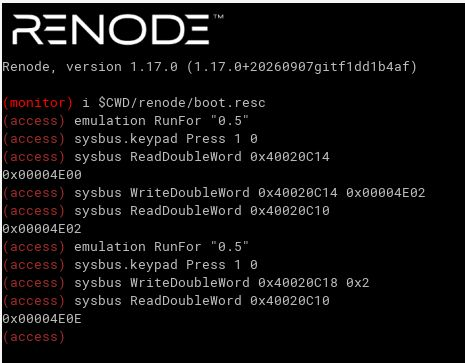
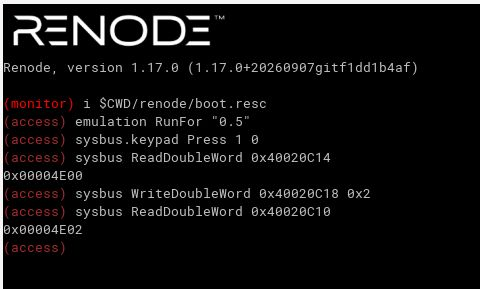
Last state of renode task documented in debugging protocol

Changed region(s): [[0.0, 0.0, 1.0, 0.9654], [0.7527, 0.4983, 0.9333, 0.5606]]

diff --git a/Docs/Debugging/renode-gpio-odr.md b/Docs/Debugging/renode-gpio-odr.md
@@ -1,6 +1,7 @@
-# Debug Log: Renode keypad scan hangs (ODR read-modify-write)
+# Debug Log: Renode keypad scan hangs
 
-Date: 2026-11-01 to 2026-11-02  
+Status: parked (2026-11-03), cause narrowed down to H4, see [Follow-ups](#follow-ups)  
+Date: 2026-11-01 to 2026-11-03  
 Renode 1.17.0 (portable `.deb`), `stm32f4_discovery-kit.repl` + `renode/KeypadMatrix.cs`  
 Firmware: `build-firmware/stm32f407_access_control`  
 Files involved: `renode/boot.resc`, `renode/stm32f407_access.repl`, `renode/KeypadMatrix.cs`, `Tests/renode/access.robot`, `keypad.c`, `stm32f407xx_gpio.c`
@@ -27,6 +28,9 @@ renode renode/boot.resc
 | Hex-Value | LED-Part | COLUMNS | x | ROWS |
 | --- | --- | --- | --- | --- |
 | 4F00 | 0100 | 1111 | 0000 | 0000 |
+| 4E00 | 0100 | 1110 | 0000 | 0000 |
+| 4E02 | 0100 | 1110 | 0000 | 0010 |
+| 4F02 | 0100 | 1111 | 0000 | 0010 |
 | 4E0E | 0100 | 1110 | 0000 | 1110 |
 | 4B0E | 0100 | 1011 | 0000 | 1110 |
 | 4D0E | 0100 | 1101 | 0000 | 1110 |
@@ -50,7 +54,8 @@ That is the state in the middle of the row-0 pass of `Keypad_Scan()`.
 |----|------------|--------|----------|
 | [H1](#h1-timing-too-short) | Timing too short | rejected | [E1](#e1), [E2](#e2) |
 | [H2](#h2-keypad-model-wrong) | Keypad model wrong | rejected | [E3](#e3) |
-| [H3](#h3-renode-gpio-keeps-one-state-per-pin) | Renode GPIO: one state per pin | open | [E4](#e4), [E5](#e5), [E6](#e6), [E7](#e7), [E8](#e8) |
+| [H3](#h3-renode-gpio-keeps-one-state-per-pin) | Renode GPIO: one state per pin (ODR read-modify-write is the cause) | refuted in this form | [E4](#e4), [E5](#e5), [E6](#e6), [E7](#e7), [E8](#e8) |
+| [H4](#h4-input-changes-lost-during-a-write-to-the-same-port) | Input changes made during a write to the same port are lost | supported, mechanism not confirmed | [E6](#e6), [E7](#e7), [E8](#e8), [E9](#e9) |
 
 ## Setup findings (no hypothesis)
 | # | Action | Result | Consequence |
@@ -80,28 +85,53 @@ Status: rejected
 | [E3](#e3) | logging added to `KeypadMatrix.cs` (row inputs, column outputs) | `Press 1 0`: `col 0 -> False`; row 1 HIGH: `col 0 -> True` | model logic is correct |
 
 ## H3: Renode GPIO keeps one state per pin
-Status: open (strong evidence, decisive test E8 pending)
+Status: refuted in this form. E8 shows that BSRR behaves like ODR, so the ODR write is not the cause. Only the ODR read part holds ([E5](#e5)).
 
 Hypothesis: Renode's STM32 GPIO port keeps one state per pin, shared by input and output.
 An ODR read returns the pin level, and an ODR write overwrites input pins.
 On real hardware ODR holds only the output latch and ignores pins in input mode.
 
-Mechanism in the stuck run:
+Original mechanism (refuted by E8):
 1. A key is held, so column 0 is LOW and an ODR read returns bit 8 = 0.
 2. `GPIO_WritePin(row, 1)` does `ODR |= bit`, which reads ODR (bit 8 = 0) and writes it all back.
 3. The write sets the row pin, the keypad model drives column 0 HIGH, then the same write sets bit 8 to 0 again.
 4. The port now reads LOW while the model believes HIGH. No further event corrects it,
    so `Keypad_Scan()` waits forever for a release.
 
-Falsified if: in run A of E8 the IDR bit 8 reads 1.
+Falsified if: in run B of E8 (BSRR) the IDR bit 8 reads 1. Result: it reads 0 in both runs, so H3 is refuted (see [H4](#h4-input-changes-lost-during-a-write-to-the-same-port)).
 
 | # | Action | Result | Conclusion |
 |---|--------|--------|------------|
 | [E4](#e4) | `gpioPortD OnGPIO 8 false/true`, read IDR | bit 8 = 0 / 1 | control: the input path of the port works |
 | [E5](#e5) | `Press 0 0`, read ODR | `0x0E00` (bit 8 = 0) | an ODR read returns the pin level |
-| [E6](#e6) | `Press 1 0`, write ODR `0x4F0D` (row 1 LOW) | IDR bit 8 stays 1 | an ODR write overwrites an input pin (consistent, not yet isolated) |
+| [E6](#e6) | `Press 1 0`, write ODR `0x4F0D` (row 1 LOW) | IDR bit 8 stays 1 | the column update triggered by the row write is lost (re-interpreted after E8, see H4) |
 | [E7](#e7) | keypad log of the stuck run | last event "row 0 = False", no column change afterwards | firmware reads column LOW, model says HIGH |
-| [E8](#e8) | run A (ODR read-modify-write) vs run B (BSRR) in the monitor | pending | decisive test |
+| [E8](#e8) | run A (ODR read-modify-write) vs run B (BSRR) in the monitor | IDR `0x4E02` in both runs (bit 8 = 0) | prediction falsified: BSRR does not help |
+
+## H4: input changes lost during a write to the same port
+Status: supported (E9 matches all five predictions), mechanism not confirmed
+
+Hypothesis: a write to the GPIO port changes a row pin. The keypad model answers inside that
+callback by changing a column pin (input) of the same port. The port model loses that input change.
+The same change delivered from outside a write (monitor command, `Release`) works.
+
+| # | Action | Result | Conclusion |
+|---|--------|--------|------------|
+| [E6](#e6) | row 1 LOW written while `Press 1 0` is active | IDR bit 8 stays 1 | column update triggered by the write is lost |
+| [E7](#e7) | keypad log of the stuck run | no column change after the last row write | same pattern in the firmware |
+| [E8](#e8) | row 1 HIGH via ODR (run A) or BSRR (run B), model logs `col 0 -> True` | IDR bit 8 stays 0 in both | lost with both register paths, so not an ODR effect |
+| [E9](#e9) | updates from outside a write (`Release`, `OnGPIO`) vs inside a write (BSRR) | outside: bit 8 follows (1); inside: stays 0 | only the update nested in the write is lost |
+
+Consequence: after the lost update the keypad model still believes column 0 is HIGH, the port reads LOW.
+The model sends no new edge, so the two stay out of sync until an external edge arrives ([E9](#e9), last step).
+
+Not confirmed: why the update is lost. "Re-entrancy inside the port's write handler" is an interpretation of the
+symptom; the source of the STM32 GPIO port in Renode has not been read.
+
+Workaround ideas (untested):
+- In `KeypadMatrix.cs` deliver the column update outside the port's write, e.g. scheduled through the machine
+  (needs the `IMachine` injected into the constructor).
+- Fix in Renode's GPIO port itself (separate topic, see Follow-ups).
 
 ## Experiment details
 
@@ -189,22 +219,22 @@ Related: [H3](#h3-renode-gpio-keeps-one-state-per-pin)
 0x00004F0D
 ```
 `0x4F0D` = `0100 1111 0000 1101`: row 1 (bit 1) LOW, rows 0, 2, 3 HIGH, columns (bits 8-11) HIGH.
-With `Press 1 0` active, column 0 should now be LOW. IDR bit 8 stays 1, so the write
-(which contained bit 8 = 1) overwrote the pin after the model had driven it.
+With `Press 1 0` active, column 0 should now be LOW. IDR bit 8 stays 1, so the column update
+that the row write triggers was lost (first read as an ODR overwrite, re-interpreted after E8).
 
 Note: a first attempt wrote `0x0000000F`, which also cleared bits 8-11 and made the result meaningless.
 
-Related: [H3](#h3-renode-gpio-keeps-one-state-per-pin)
+Related: [H3](#h3-renode-gpio-keeps-one-state-per-pin), [H4](#h4-input-changes-lost-during-a-write-to-the-same-port)
 
 ### E7
 Same log as [E3](#e3). After `row 0 = False` no further row or column event appears,
 although the firmware should continue with row 1. The model reports all columns HIGH,
 but the firmware reads column 0 as LOW and waits in the release loop.
 
-Related: [H3](#h3-renode-gpio-keeps-one-state-per-pin)
+Related: [H3](#h3-renode-gpio-keeps-one-state-per-pin), [H4](#h4-input-changes-lost-during-a-write-to-the-same-port)
 
 ### E8
-Decisive test without changing the firmware. Start with `renode renode/boot.resc`.
+Decisive test for H3 without changing the firmware. Start with `renode renode/boot.resc`, one fresh session per run.
 
 Run A (simulates the old `GPIO_WritePin`, read-modify-write):
 ```
@@ -216,7 +246,7 @@ sysbus ReadDoubleWord 0x40020C10
 ```
 Prediction (H3): the log shows `col 0 -> True`, but IDR bit 8 reads 0.
 
-Run B (BSRR, restart Renode first):
+Run B (BSRR):
 ```
 emulation RunFor "0.5"
 sysbus.keypad Press 1 0
@@ -227,33 +257,84 @@ Prediction (H3): IDR bit 8 reads 1.
 
 ![Experiment output](../img/hypothesis_3_experiment_8.jpg)
 
-Result: _pending_
+The screenshot shows run B in a fresh session (BSRR write, IDR `0x4E02`, bit 8 = 0).
+Run A was taken in a separate fresh session; its values are listed below.
 
-Related: [H3](#h3-renode-gpio-keeps-one-state-per-pin)
+Values of both runs:
+
+```
+Run A:  Press 1 0 -> ODR 0x00004E00;  WriteDoubleWord 0x40020C14 0x00004E02  ->  IDR 0x00004E02
+Run B:  Press 1 0 -> ODR 0x00004E00;  WriteDoubleWord 0x40020C18 0x2         ->  IDR 0x00004E02
+```
+In both runs the log shows `col 0 -> False`, then `keypad row 1 = True` and `col 0 -> True`.
+The model reports column 0 HIGH, but IDR bit 8 stays 0 with both register paths.
+Prediction for run B (`0x4F02`) falsified, H3 refuted.
+
+### E9
+Fresh session, emulation paused between the commands:
+```
+(access) emulation RunFor "0.5"
+(access) sysbus.keypad Press 1 0
+(access) sysbus ReadDoubleWord 0x40020C10
+0x00004E00
+(access) sysbus.keypad Release 1 0
+(access) sysbus ReadDoubleWord 0x40020C10
+0x00004F00
+(access) sysbus.keypad Press 1 0
+(access) sysbus ReadDoubleWord 0x40020C10
+0x00004E00
+(access) sysbus WriteDoubleWord 0x40020C18 0x2
+(access) sysbus ReadDoubleWord 0x40020C10
+0x00004E02
+(access) gpioPortD OnGPIO 8 true
+(access) sysbus ReadDoubleWord 0x40020C10
+0x00004F02
+```
+
+| Step | Predicted bit 8 (H4) | Observed | What it shows |
+|------|----------------------|----------|---------------|
+| `Press 1 0` (rows LOW) | 0 | 0 | model to port, LOW works |
+| `Release 1 0` (outside a write) | 1 | 1 | model to port, HIGH works outside a write |
+| `Press 1 0` again | 0 | 0 | as before |
+| BSRR sets row 1 HIGH (inside a write) | 0 | 0 | the column update nested in the write is lost |
+| `gpioPortD OnGPIO 8 true` | 1 | 1 | the port still accepts a plain external update |
+
+All five predictions hit. The port is not broken: LOW and HIGH both work when they arrive outside a write.
+The model also stays unaware of the loss, since it already believes column 0 is HIGH.
+
+Related: [H4](#h4-input-changes-lost-during-a-write-to-the-same-port)
 
 ## Root cause
-Pending (H3, confirmation by [E8](#e8)). `GPIO_WritePin` uses `ODR |=` / `ODR &=` (read-modify-write).
-In Renode the ODR read returns the pin level of input pins and the write overwrites them,
-so a column held LOW by a key press is forced LOW again.
+Supported by [E8](#e8) and [E9](#e9), mechanism not confirmed: a column update that the keypad model triggers
+from inside a write to the same GPIO port is lost in Renode's port model, so the firmware reads a column LOW
+that the model has already released. It is independent of how the firmware writes (ODR read-modify-write
+or BSRR). On real hardware the keypad lines change independently of the write, so the firmware logic is not affected.
 
 ## Fix
-`GPIO_WritePin` / `GPIO_TogglePin` via BSRR (atomic, no ODR read).
-Order of work:
+Not decided yet. E8 shows that BSRR alone does not remove the Renode problem.
+`GPIO_WritePin` / `GPIO_TogglePin` via BSRR (atomic, no ODR read) stays a code-quality item, independent of this bug.
+Order of work if it is done:
 1. add host tests (`GpioTest.cpp`), green on the old code
 2. change both functions to BSRR
 3. tests stay green
-4. run `renode-test Tests/renode/access.robot`
+
+For the Renode test: deliver the column update outside the write (workaround ideas under [H4](#h4-input-changes-lost-during-a-write-to-the-same-port)).
 
 ## Verification
-- [ ] E8 run A and run B match the predictions
-- [ ] host tests (`GpioTest.cpp`) green before and after the change
+- [x] E8 done: run A and run B both leave IDR bit 8 = 0 (H3 refuted)
+- [x] E9 done: all five predictions of H4 hit
+- [ ] workaround in `KeypadMatrix.cs` or upstream fix
+- [ ] host tests (`GpioTest.cpp`) green before and after a BSRR change
 - [ ] `renode-test Tests/renode/access.robot` green (3 tests)
 
 ## Lessons
-- Renode's GPIO model differs from hardware for ODR reads and writes of input pins.
+- Renode's GPIO model differs from hardware: ODR reads return the pin level, and input changes made during a write to the same port can be lost.
+- Edge-based models can drift out of sync with the port; a model that sends only edges cannot repair a lost one.
 - Wait for the firmware to be idle before injecting the next key.
 - Isolate a hypothesis with a small monitor experiment before changing firmware code.
+- Write the prediction down before the experiment: E8 falsified H3 and avoided a firmware change that would not have fixed the problem.
 - `LogFunctionNames` on a busy-polling main loop floods the log; hook single functions instead.
 
 ## Follow-ups
-- Report the Renode behaviour upstream once E8 confirms it (tracked separately).
+- `.github/workflows/renode.yml` is added; the Robot test still fails, so the job is red until the workaround exists.
+- Report the Renode behaviour upstream (tracked separately); read `STM32_GPIOPort.cs` first to confirm the mechanism.
